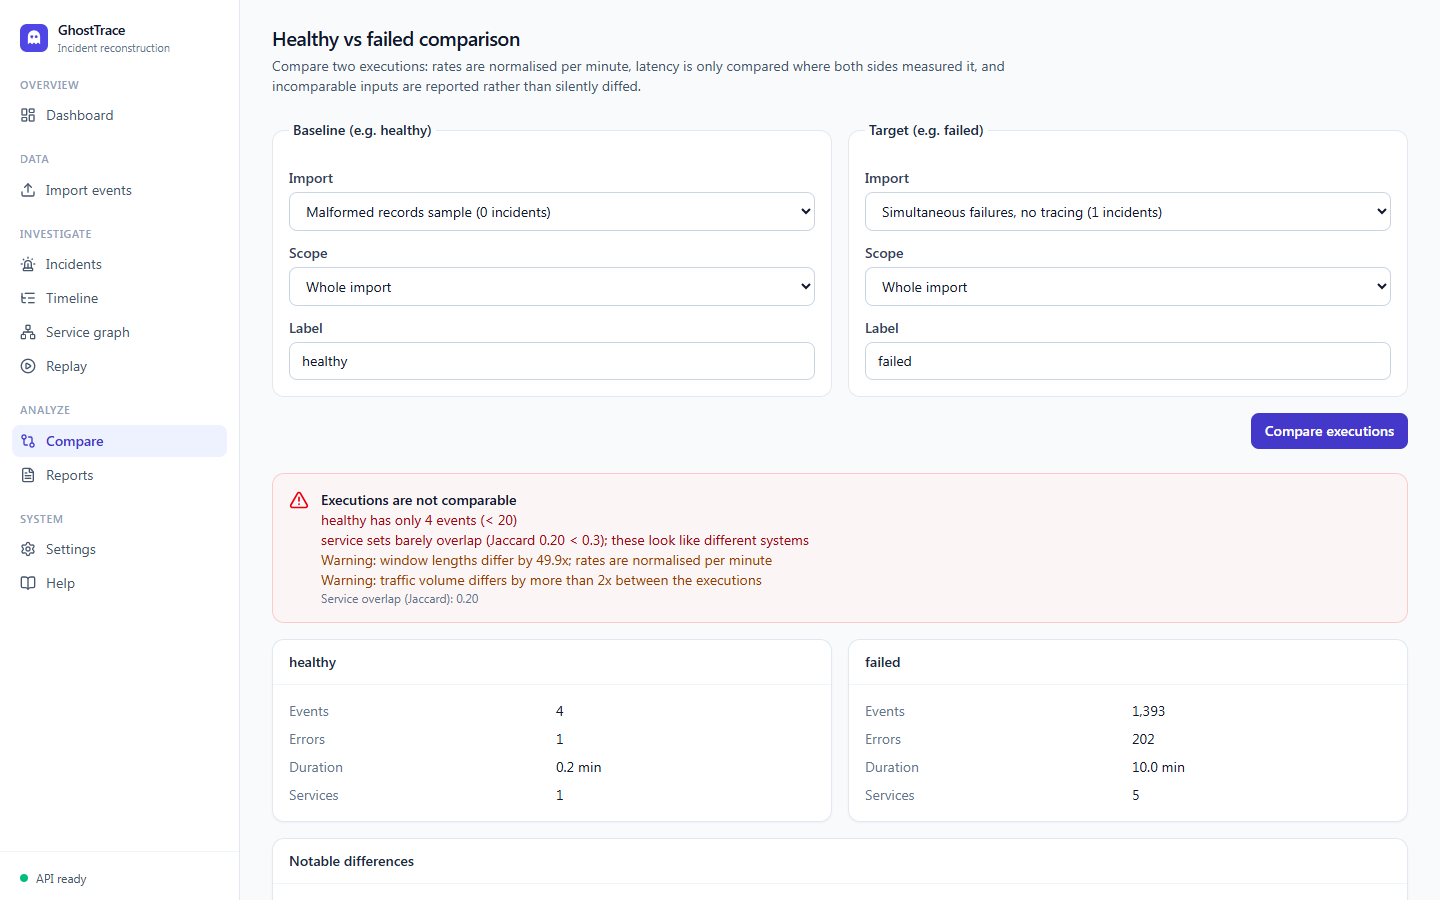
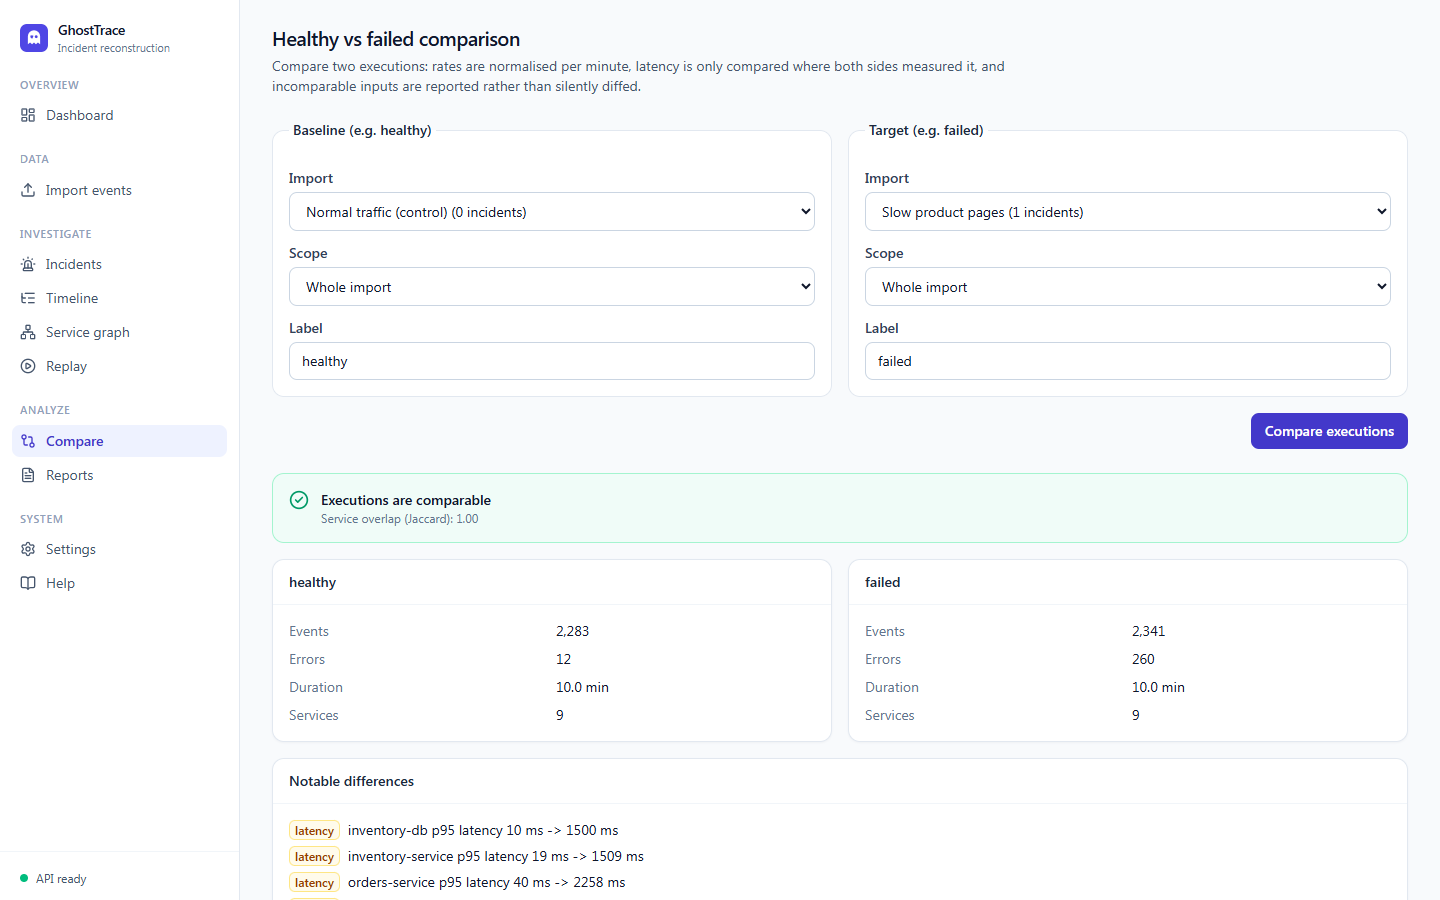
fix(frontend): sensible comparison defaults and responsive import summary; refresh screenshots

diff --git a/frontend/src/features/comparison/ComparisonPage.tsx b/frontend/src/features/comparison/ComparisonPage.tsx
@@ -140,8 +140,11 @@ export function ComparisonPage() {
   const [chosenTarget, setTarget] = useState<ExecutionRef | null>(null);
 
   const items = imports.data?.items.filter((item) => item.status !== "failed") ?? [];
-  // Until the user picks, default to a healthy import as baseline and a failed one as target.
-  const healthy = items.find((item) => item.incident_count === 0);
+  // Until the user picks: the largest incident-free import as baseline, the newest import
+  // with incidents as target.
+  const healthy = items
+    .filter((item) => item.incident_count === 0)
+    .reduce<ImportSummary | undefined>((best, item) => (!best || item.accepted > best.accepted ? item : best), undefined);
   const failed = items.find((item) => item.incident_count > 0);
   const baseline = chosenBaseline ?? { import_id: healthy?.id ?? "", label: healthy ? "healthy" : "baseline" };
   const target = chosenTarget ?? { import_id: failed?.id ?? "", label: failed ? "failed" : "target" };

diff --git a/frontend/src/tests/comparison.test.tsx b/frontend/src/tests/comparison.test.tsx
@@ -60,7 +60,16 @@ test("incomparable executions are flagged with reasons", () => {
 
 test("defaults to a healthy baseline and failed target, then submits", async () => {
   const { calls } = mockApi({
-    "GET /imports": { items: [importSummary({ id: "imp_h", name: "healthy", incident_count: 0 }), importSummary({ id: "imp_f", name: "failed", incident_count: 1 })], total: 2, limit: 100, offset: 0 },
+    "GET /imports": {
+      items: [
+        importSummary({ id: "imp_small", name: "tiny sample", incident_count: 0, accepted: 4 }),
+        importSummary({ id: "imp_h", name: "healthy", incident_count: 0, accepted: 2283 }),
+        importSummary({ id: "imp_f", name: "failed", incident_count: 1 }),
+      ],
+      total: 3,
+      limit: 100,
+      offset: 0,
+    },
     "GET /incidents": { items: [], total: 0, limit: 50, offset: 0 },
     "POST /comparisons": { status: 201, body: result() },
   });

diff --git a/frontend/src/features/ingestion/ImportResult.tsx b/frontend/src/features/ingestion/ImportResult.tsx
@@ -11,7 +11,7 @@ export function ImportResult({ result }: { result: ImportSummary }) {
   return (
     <Card title={<span className="flex items-center gap-2"><Icon className={`h-4 w-4 ${tone}`} aria-hidden /> Import summary: {result.name}</span>}>
       <div aria-live="polite" className="space-y-4">
-        <dl className="grid grid-cols-2 gap-3 text-sm sm:grid-cols-5">
+        <dl className="grid grid-cols-2 gap-x-6 gap-y-3 text-sm sm:grid-cols-3 lg:grid-cols-5">
           {[
             ["Status", <Badge key="s" tone={result.status === "completed" ? "green" : result.status === "failed" ? "red" : "amber"}>{humanize(result.status)}</Badge>],
             ["Records read", formatNumber(result.total_records)],

diff --git a/frontend/e2e/screenshots.spec.ts b/frontend/e2e/screenshots.spec.ts
@@ -53,6 +53,8 @@ test("@screenshots capture the main views", async ({ page, request }) => {
   await shot(page, "replay");
 
   await page.goto("/compare");
+  const targetImport = page.getByRole("group", { name: "Target (e.g. failed)" }).getByLabel("Import");
+  await targetImport.selectOption({ label: "Slow product pages (1 incidents)" });
   await page.getByRole("button", { name: "Compare executions" }).click();
   await expect(page.getByText("Notable differences")).toBeVisible();
   await shot(page, "comparison");
